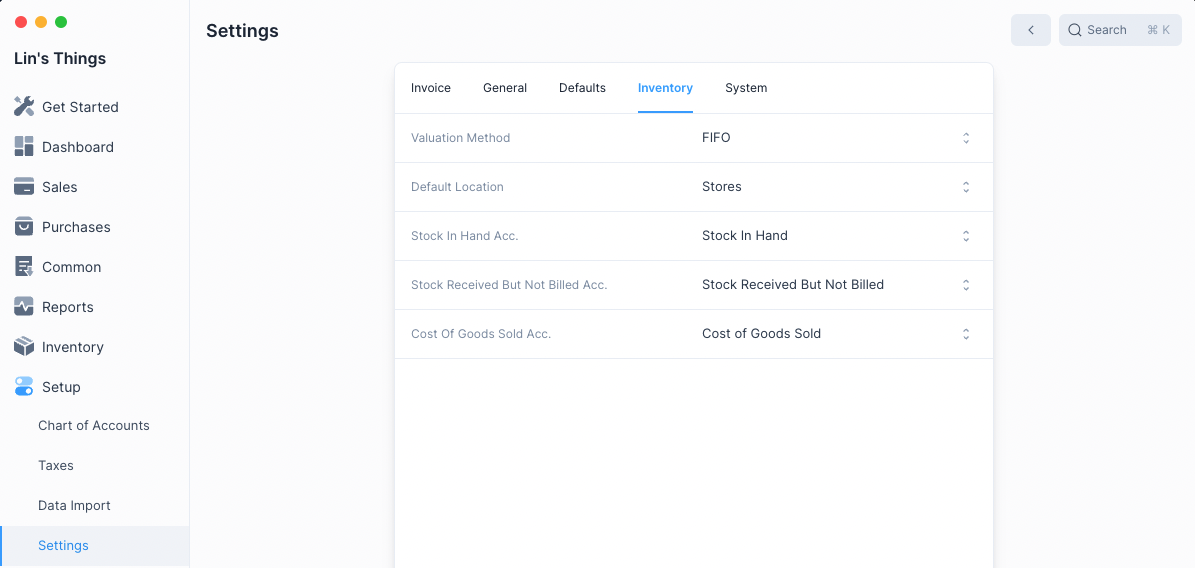
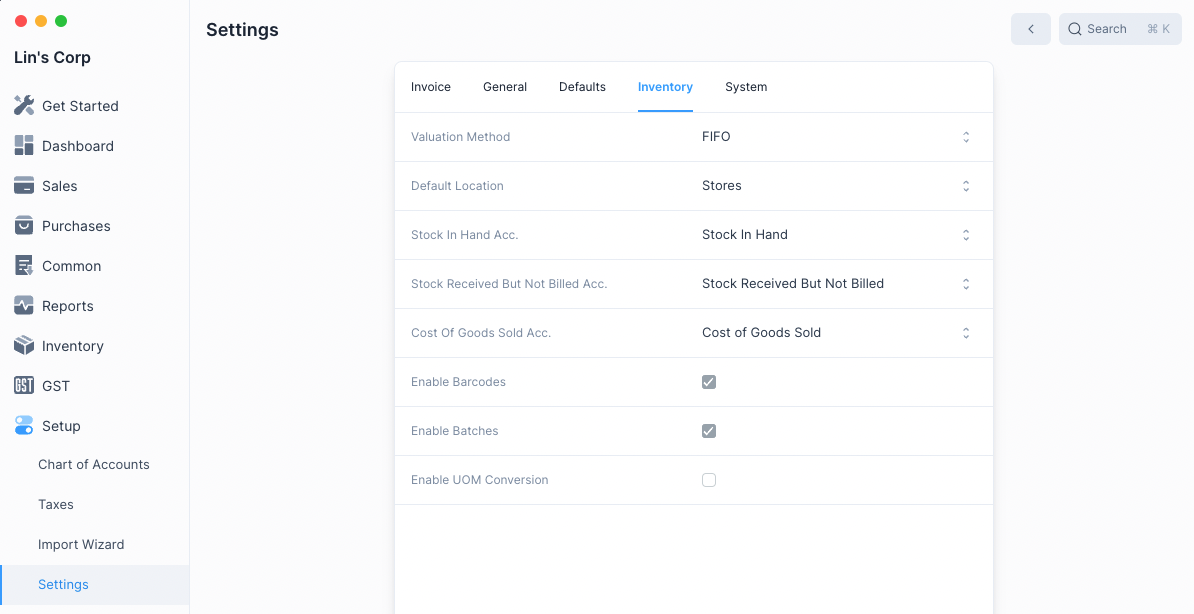
add docs for batches

diff --git a/docs/.vitepress/sidebar.ts b/docs/.vitepress/sidebar.ts
@@ -62,6 +62,7 @@ export default function sidebar() {
         { text: 'Purchase Receipt', link: '/inventory/purchase-receipt' },
         { text: 'Stock Ledger', link: '/inventory/stock-ledger' },
         { text: 'Stock Balance', link: '/inventory/stock-balance' },
+        { text: 'Batches', link: '/inventory/batches' },
         { text: 'Settings', link: '/inventory/settings' },
       ],
     },

diff --git a/docs/inventory/batches.md b/docs/inventory/batches.md
@@ -1,0 +1,45 @@
+# Batches
+
+Inventory in Frappe Books can be maintained on the basis of Batches. Here a
+Batch of some Item is a uniquely grouped collection of those Items.
+
+## Enable Batches
+
+The Batch feature needs to be enabled first by checking the Enable Batches
+option under [Inventory Settings](/inventory/settings).
+
+To navigate to the list of Batches, open [Quick Search](/miscellaneous/search)
+and then type "batch list" and select the first option.
+
+## Batched Items
+
+Once Batch has been enabled, you can mark an Item as a Batched Item by first
+checking Track Item and then Has Batch.
+
+![Enable Has Batch](./images/item-has-batch.png)
+
+::: info Track Item
+
+Has Batch can be enabled only if Track Item is set.
+:::
+
+## Mentioning Item Batch
+
+Once Batch has been enabled for an Item, transactions involving the item that
+update inventory such as Stock Movements, Shipments and Purchase
+Receipts will require mentioning the Item's Batch.
+
+This can be done by clicking the edit button on the table row and selecting the
+batch.
+
+![Mentioning Batches](./images/mentioning-batches.png)
+
+## Batch-wise Reports
+
+After batches have been enabled, the inventory reports i.e. Stock Ledger and
+Stock Balance will both have an additional column that mentions the Item's Batch.
+
+You can also set Batch specific filters to show information that relates only to
+the selected Batch.
+
+![Batch-wise Report](./images/batchwise-report.png)

diff --git a/docs/inventory/settings.md b/docs/inventory/settings.md
@@ -43,3 +43,15 @@ whenever a Shipment is made.
 Checking this will allow you to set barcodes on items. It will also display a
 barcode input in forms (such as Sales Invoice and Shipment) where items are
 entered.
+
+### Enable Batches
+
+Checking this will allow the usage of Batches. Items will have a Has Batch
+option if the item is being tracked. It will also enable the Batch entry type
+which can be navigated to by using the Quick Search.
+
+### Enable UOM Conversion
+
+Checking this will allow setting multiple UOMs for an Items. Then when making a
+entry that involves the Item, one of the other UOMs can be selected to mention
+its quantity.
